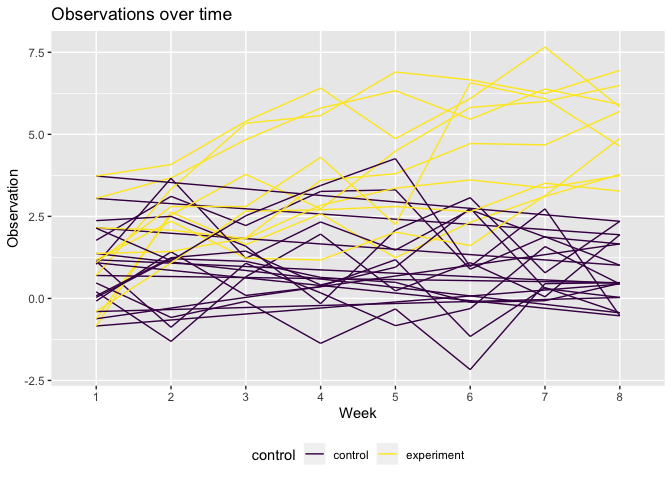
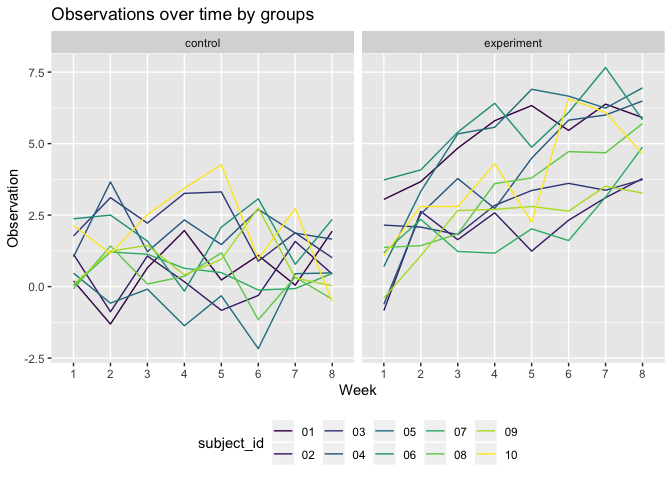
Completed problem 3 + added comment to problem 2

diff --git a/p8105_hw5_yc3508.md b/p8105_hw5_yc3508.md
@@ -5,7 +5,7 @@ Yama Chang
 
 ## Problem 1
 
-**Read and tidy the IRIS data**
+Read and tidy the IRIS data
 
 ``` r
 iris_with_missing = iris_with_missing %>%
@@ -29,7 +29,7 @@ iris_cleaned = map(iris_with_missing, clean_data) %>%
 
 ## Problem 2
 
-**Read and tidy data from a longitudinal study**
+Read and tidy data from a longitudinal study
 
 ``` r
 files = list.files("./data", pattern = ".csv", all.files = FALSE, 
@@ -47,35 +47,11 @@ study = data.frame(participants = files) %>%
     ## Warning: Expected 2 pieces. Additional pieces discarded in 20 rows [1, 2,
     ## 3, 4, 5, 6, 7, 8, 9, 10, 11, 12, 13, 14, 15, 16, 17, 18, 19, 20].
 
-**Plot 1: Show observations on each subject over time**
+**Plot A: A spaghetti plot showing observations on each subject over
+time**
 
 ``` r
-Plot_1 = study %>% 
-  pivot_longer(week_1:week_8,
-               names_to = "week",
-               names_prefix = "week_",
-               values_to = "observation") %>% 
-  ggplot(aes(x = week, y = observation, group = subject_id, color = control)) +
-  geom_path() +
-  labs(
-    title = "Observations over time",
-    x = "Week",
-    y = "Observation"
-  ) + 
-  viridis::scale_color_viridis(discrete = TRUE) + 
-  theme(legend.position = "bottom")
-
-Plot_1
-```
-
-![](p8105_hw5_yc3508_files/figure-gfm/unnamed-chunk-3-1.png)<!-- -->
-
-Comment on Plot 1:
-
-**Plot 2: Show differences between groups**
-
-``` r
-Plot_2 = study %>% 
+Plot_A = study %>% 
   pivot_longer(week_1:week_8,
                names_to = "week",
                names_prefix = "week_",
@@ -91,11 +67,131 @@ Plot_2 = study %>%
   viridis::scale_color_viridis(discrete = TRUE) + 
   theme(legend.position = "bottom")
 
-Plot_2  
+Plot_A  
 ```
 
-![](p8105_hw5_yc3508_files/figure-gfm/unnamed-chunk-4-1.png)<!-- -->
+![](p8105_hw5_yc3508_files/figure-gfm/unnamed-chunk-3-1.png)<!-- -->
 
-Comment on Plot 2:
+In order to compare control and experiment group, we have created Plot A
+to present the observations on each subject over time for both groups
+separately. While the control group showed irregular change over time,
+the experiment group demonstrated increasing effect over time. All
+subjects in experiment group have positive effect after 8 weeks.
 
 ## Problem 3
+
+Write a function for regression model
+
+``` r
+sim_regression = function(n = 30, beta0 = 2, beta1) {
+  
+  sim_data = tibble(
+    x = rnorm(n, mean = 1, sd = 1),
+    y = beta0 + beta1 * x + rnorm(n, 0, 50)
+  )
+  
+  ls_fit = lm(y ~ x, data = sim_data) %>% 
+    broom::tidy()
+  
+  ls_fit
+}
+
+sim_results = 
+  rerun(10000, sim_regression(30, 2, 0)) %>% 
+  bind_rows() %>% 
+  select(term, estimate, p.value) %>% 
+  knitr::kable()
+```
+
+Use list columns and map for repeating beta1
+
+``` r
+sim_results = 
+  tibble(beta1 = c(0, 1, 2, 3, 4, 5, 6)) %>% 
+  mutate(
+    output_lists = map(.x = beta1, ~rerun(10000, sim_regression(beta1 = .x))),
+    estimate_dfs = map(output_lists, bind_rows)) %>% 
+  select(-output_lists) %>% 
+  unnest(estimate_dfs)
+```
+
+Plot C: Show the proportion of times the null was rejected (the power of
+the test) on the y axis and the true value of β1 on the x axis
+
+``` r
+Plot_C = 
+  sim_results %>% 
+  filter(term == "x") %>% 
+  mutate(
+    reject = ifelse(p.value < '0.05', 1, 0)
+  ) %>% 
+  group_by(beta1) %>% 
+  summarise(prop_reject = mean(reject)) %>% 
+  ggplot(aes(x = beta1, y = prop_reject)) + 
+  geom_line(alpha =.5, color = "coral") + 
+  geom_point(alpha = .5) +
+  labs(
+    title = "The power of the test",
+    x = "True β1",
+    y = "Power"
+  )
+
+Plot_C
+```
+
+![](p8105_hw5_yc3508_files/figure-gfm/unnamed-chunk-6-1.png)<!-- -->
+
+The effect and the power of the test is positive correlated.
+
+Plot D: Average estimate of β hat: All value vs rejected H0
+
+``` r
+Plot_D1 = 
+  sim_results %>% 
+  filter(term == "x") %>% 
+  mutate(
+    reject = ifelse(p.value < '0.05', 1, 0)
+  ) %>% 
+  group_by(beta1) %>% 
+  summarise(mean_beta1 = mean(estimate)) %>% 
+  ggplot(aes(x = beta1, y = mean_beta1)) +
+  geom_line(alpha =.5, color = "coral") +
+  geom_point() +
+  labs(
+    title = "Average estimate of β hat",
+    x = "True β1",
+    y = "Average of β hat"
+  )
+
+Plot_D2 = sim_results %>% 
+  filter(term == "x") %>% 
+  mutate(
+    reject = ifelse(p.value < '0.05', 1, 0)
+  ) %>% 
+  filter(reject == 1) %>% 
+  group_by(beta1) %>% 
+  summarise(mean_beta1 = mean(estimate)) %>% 
+  ggplot(aes(x = beta1, y = mean_beta1)) +
+  geom_line(alpha =.5, color = "turquoise") +
+  geom_point() +
+  labs(
+    title = "Average estimate of β hat: Rejected H0",
+    x = "True β1",
+    y = "Average of rejected β hat"
+  )
+
+Plot_D1 + Plot_D2
+```
+
+![](p8105_hw5_yc3508_files/figure-gfm/unnamed-chunk-7-1.png)<!-- -->
+
+Plot D shows the average estimate of β̂ 1 on the y axis and the true
+value of β1 on the x axis (left) and the average estimate of β̂ 1 only
+in samples for which the null was rejected on the y axis and the true
+value of β1 on the x axis (right). We can tell from the plots that the
+average estimates of β̂ 1 are not the same. Both graphs show positive
+correlation, however, the average estimate of β̂ 1 in samples for which
+the null was rejecte is larger and the graph is steeper. The sample
+average of β̂ 1 across tests for rejected null isn’t approximately equal
+to the true value of β1. The reason may due to the increasing effect
+size.
